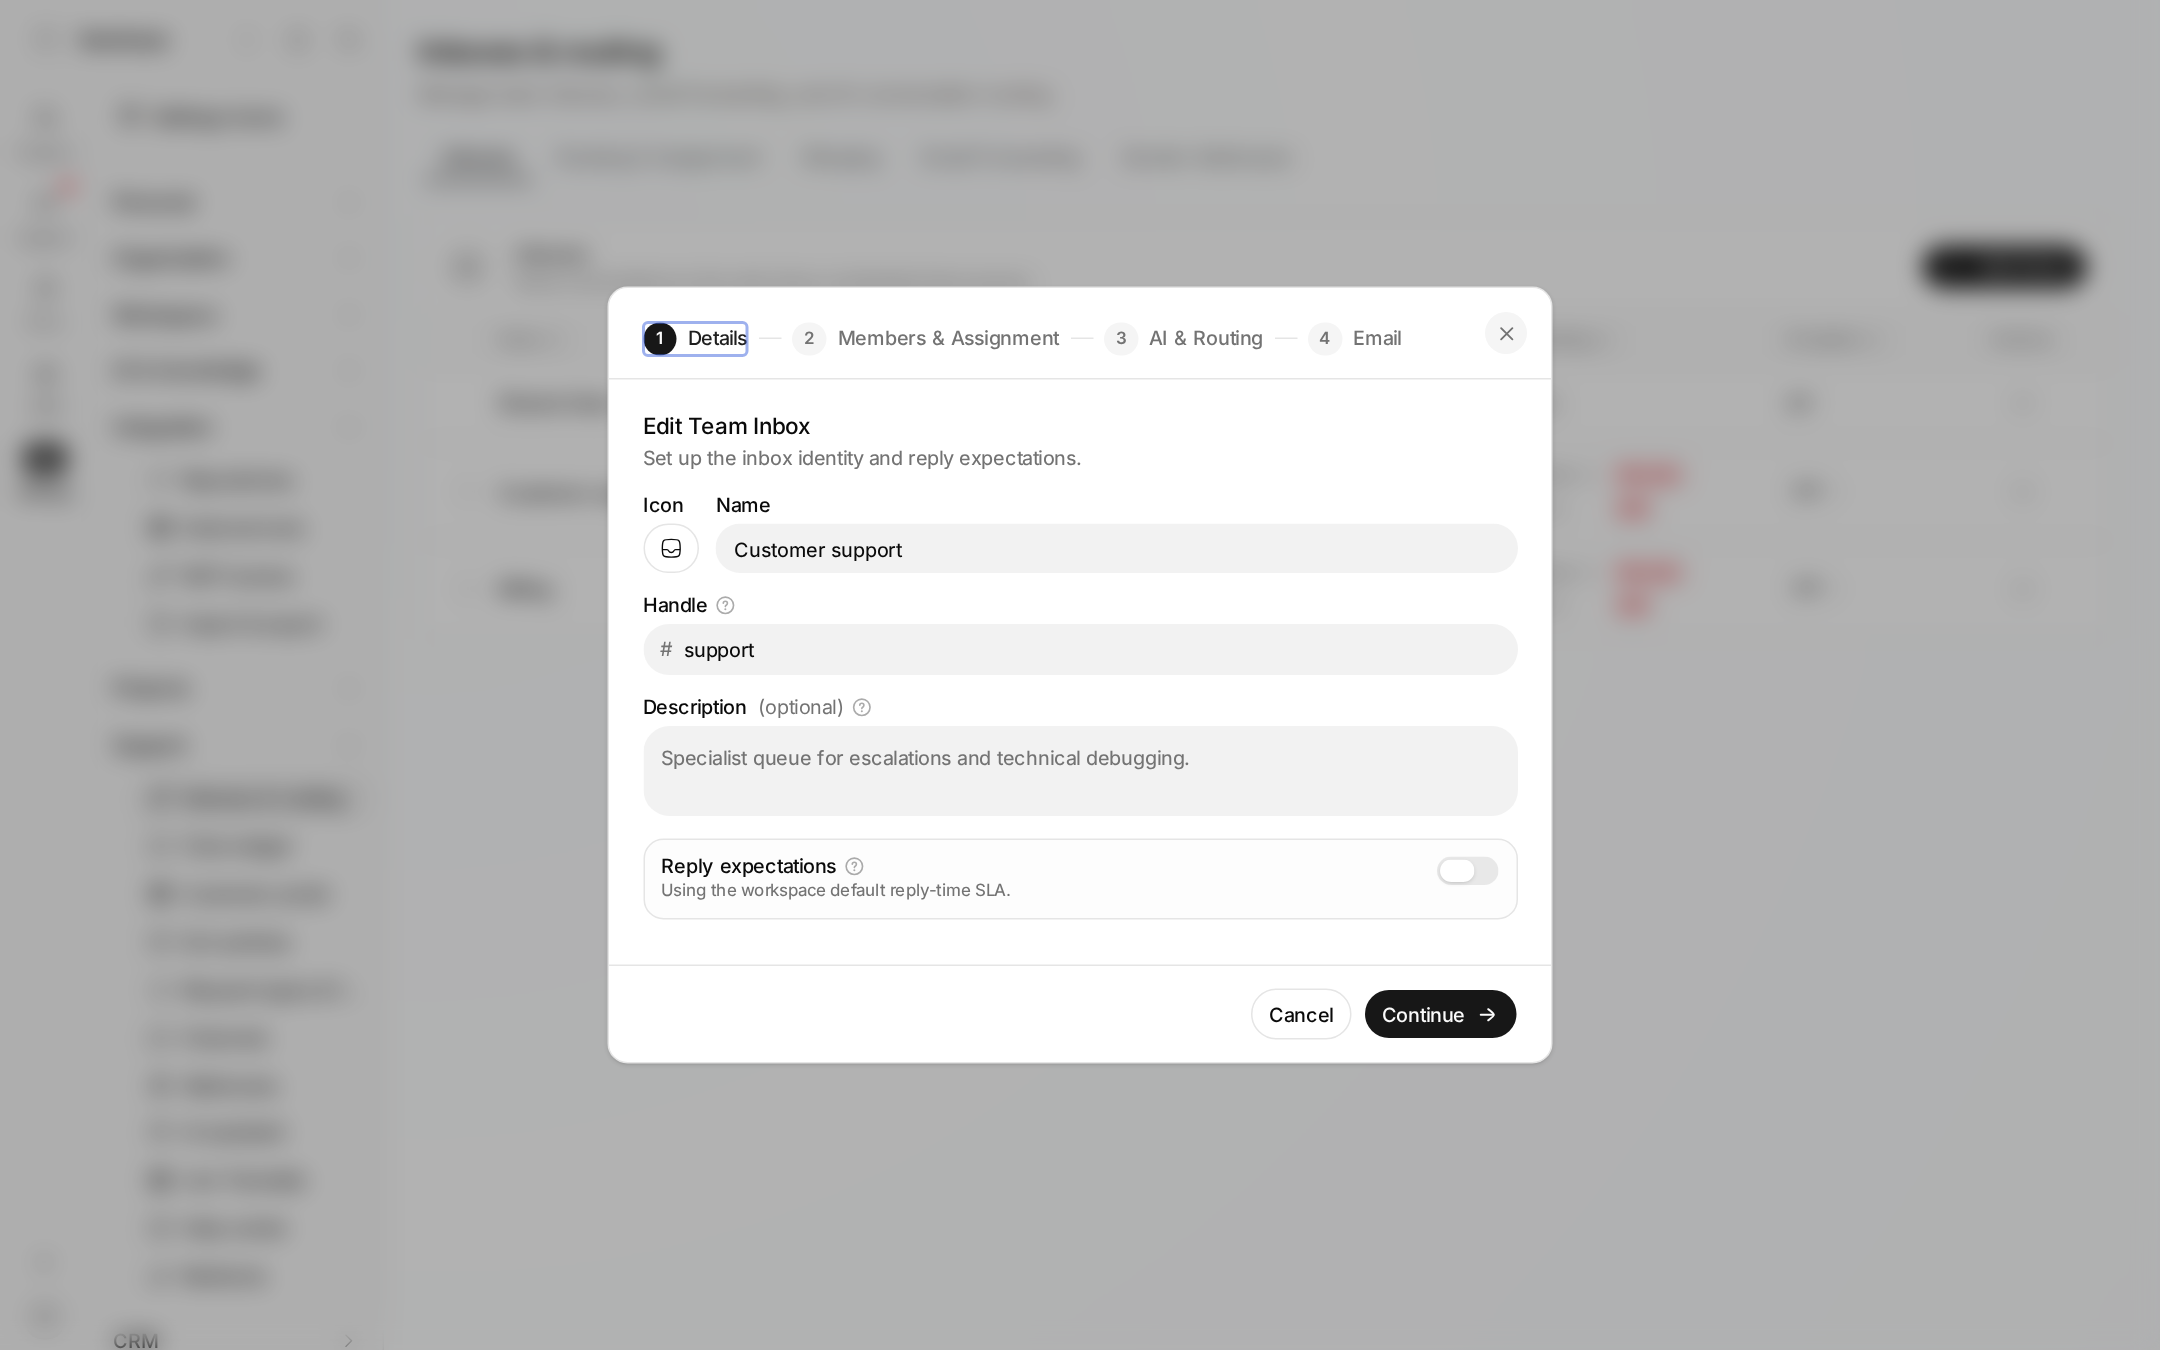
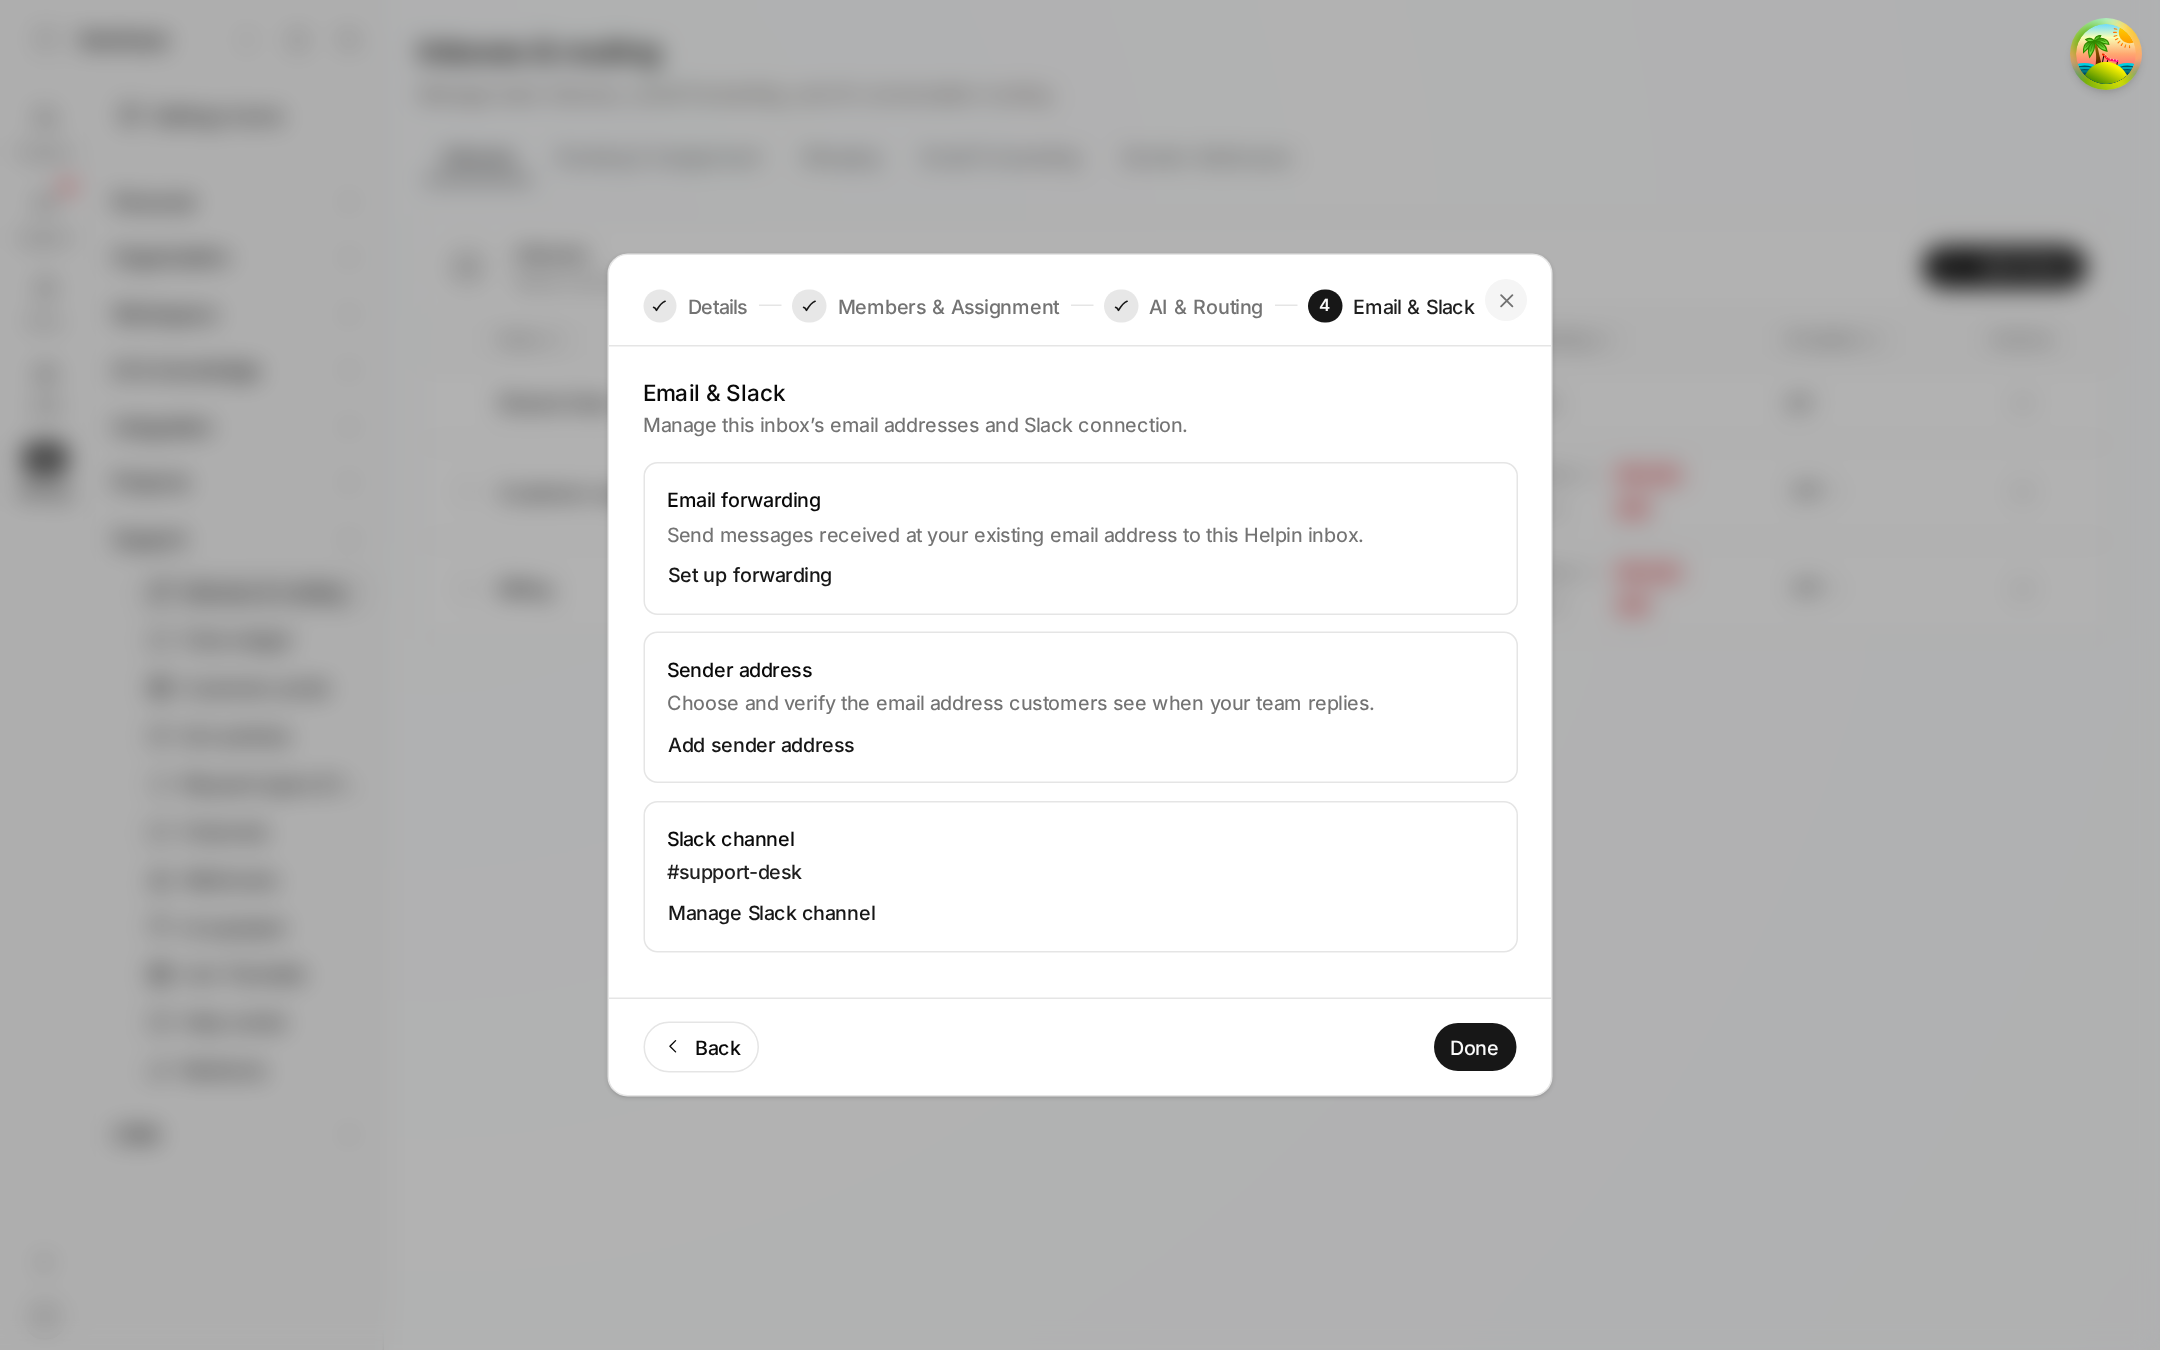
Group Slack and email setup in the team inbox editor

diff --git a/frontend/src/components/support/TeamInboxDialog.tsx b/frontend/src/components/support/TeamInboxDialog.tsx
@@ -46,8 +46,7 @@ import {
   splitMailboxMembersBySelection,
 } from './teamInboxDialogMembers';
 import { TeamInboxAssignmentFields } from './TeamInboxAssignmentFields';
-import { InboxSlackChannelRow } from '@/components/settings/channels/InboxSlackChannelRow';
-import { TeamInboxEmailSetup } from './TeamInboxEmailSetup';
+import { TeamInboxChannelSetup } from './TeamInboxChannelSetup';
 import { filterInboxAssignmentMembers, resolveInboxAssignmentSelection, type InboxAssignmentMode } from './teamInboxAssignment';
 import { getTeamInboxDialogSteps } from './teamInboxDialogFlow';
 
@@ -238,13 +237,11 @@ export function TeamInboxDialog({
   open,
   onOpenChange,
   mailbox,
-  showSlackChannel = true,
 }: {
   workspaceId: string;
   open: boolean;
   onOpenChange: (open: boolean) => void;
   mailbox?: SupportMailbox | null;
-  showSlackChannel?: boolean;
 }) {
   const [step, setStep] = useState<DialogStepNumber>(1);
   const [form, setForm] = useState<MailboxFormState>(DEFAULT_FORM);
@@ -448,7 +445,7 @@ export function TeamInboxDialog({
   ));
 
   const canProceedToStep2 = form.name.trim().length > 0 && form.handle.trim().length > 0;
-  // A new inbox reaches Email only after it is created; going back would create it twice.
+  // Channel setup follows inbox creation. Going back would create the inbox twice.
   const createdNewInbox = !mailbox && step === 4;
   const canOpenStep = (target: DialogStepNumber) => {
     if (createdNewInbox) return target === 4;
@@ -752,7 +749,6 @@ export function TeamInboxDialog({
                 </div>
               </div>
 
-              {showSlackChannel && mailbox && workspaceSlug && <InboxSlackChannelRow workspaceId={workspaceId} mailboxId={mailbox.id} />}
               <div className="space-y-1.5">
                 <FieldLabel htmlFor="team-inbox-description" tip="An internal note for your team explaining what this inbox is for. Not shown to customers.">
                   Description <span className="font-normal text-muted-foreground">(optional)</span>
@@ -1216,11 +1212,11 @@ export function TeamInboxDialog({
             <DialogHeader className="mb-4">
               <DialogTitle>{createdNewInbox ? 'Your team inbox is ready' : DIALOG_STEPS[3].label}</DialogTitle>
               <DialogDescription>
-                {createdNewInbox ? 'You can start using it now. Set up email when you’re ready.' : DIALOG_STEPS[3].description}
+                {createdNewInbox ? 'You can set up email and Slack whenever you’re ready.' : DIALOG_STEPS[3].description}
               </DialogDescription>
             </DialogHeader>
 
-            <TeamInboxEmailSetup workspaceId={workspaceId} mailboxId={mailbox?.id ?? createdMailboxId} />
+            <TeamInboxChannelSetup workspaceId={workspaceId} mailboxId={mailbox?.id ?? createdMailboxId} />
           </div>
         )}
 

diff --git a/frontend/src/components/support/TeamInboxChannelSetup.tsx b/frontend/src/components/support/TeamInboxChannelSetup.tsx
@@ -2,6 +2,7 @@ import type { ReactNode } from 'react';
 import { Badge } from '@/components/ui/badge';
 import { Button } from '@/components/ui/button';
 import { useSupportEmailRoutes, useSupportEmailSenders } from '@/hooks/queries/useSupport';
+import { useInboxSlackChannel } from '@/hooks/queries/useInboxSlackChannel';
 import { useWorkspaceStore } from '@/stores/workspaceStore';
 import { getInboxForwardingRoutes, getInboxSenderAddress, isSenderVerified } from './inboxEmailRouting';
 
@@ -12,7 +13,7 @@ function StatusBadge({ tone, children }: { tone: 'success' | 'warning'; children
   return <Badge variant="outline" className={`shrink-0 ${className}`}>{children}</Badge>;
 }
 
-function EmailSetupSection({
+function SetupSection({
   title,
   children,
   action,
@@ -48,12 +49,12 @@ function AddressRow({ primary, secondary, badge }: { primary: string; secondary?
   );
 }
 
-// Shows the inbox's current forwarding and sender address, or the action that sets each up.
 // Settings open in a new tab; the queries refetch on window focus, so status updates on return.
-export function TeamInboxEmailSetup({ workspaceId, mailboxId }: { workspaceId: string; mailboxId?: string | null }) {
+export function TeamInboxChannelSetup({ workspaceId, mailboxId }: { workspaceId: string; mailboxId?: string | null }) {
   const workspaceSlug = useWorkspaceStore((state) => state.currentWorkspace?.slug);
   const routesQuery = useSupportEmailRoutes(workspaceId);
   const sendersQuery = useSupportEmailSenders(workspaceId);
+  const slack = useInboxSlackChannel(workspaceId, mailboxId);
   const settingsHref = (search: string) =>
     workspaceSlug ? `/w/${workspaceSlug}/settings/inboxes-routing?${search}` : '/workspaces';
 
@@ -136,12 +137,19 @@ export function TeamInboxEmailSetup({ workspaceId, mailboxId }: { workspaceId: s
 
   return (
     <div className="space-y-3">
-      <EmailSetupSection title="Email forwarding" action={forwarding.action}>
+      <SetupSection title="Email forwarding" action={forwarding.action}>
         {forwarding.body}
-      </EmailSetupSection>
-      <EmailSetupSection title="Sender address" action={sender.action}>
+      </SetupSection>
+      <SetupSection title="Sender address" action={sender.action}>
         {sender.body}
-      </EmailSetupSection>
+      </SetupSection>
+      {slack && (
+        <SetupSection title="Slack channel" action={{ label: slack.channelName ? 'Manage Slack channel' : 'Connect Slack', href: slack.href }}>
+          {slack.channelName
+            ? <p className="break-words font-medium text-foreground">{slack.channelName}</p>
+            : <p>Share new conversations from this inbox in Slack.</p>}
+        </SetupSection>
+      )}
     </div>
   );
 }

diff --git a/frontend/src/hooks/queries/useInboxSlackChannel.ts b/frontend/src/hooks/queries/useInboxSlackChannel.ts
@@ -1,34 +1,22 @@
 import { useQuery } from '@tanstack/react-query'
-import { QuietPropertyRow } from '@/components/design-system/quiet'
 import { useWorkspaceAccess } from '@/hooks/queries/useSession'
 import { slackService } from '@/lib/services/slackService'
 import { slackChannelLabel } from '@/lib/supportChannels'
 import { useWorkspaceStore } from '@/stores/workspaceStore'
 
-export function useInboxSlackChannel(workspaceId: string, mailboxId: string) {
+export function useInboxSlackChannel(workspaceId: string, mailboxId?: string | null) {
   const slug = useWorkspaceStore(state => state.currentWorkspace?.slug)
   const { data: access } = useWorkspaceAccess(workspaceId)
   const allowed = !!access?.permissions?.includes('settings.manage') && !!access.permissions.includes('support.admin')
   const { data } = useQuery({
     queryKey: ['slack', workspaceId],
     queryFn: () => slackService.settings(workspaceId),
-    enabled: allowed,
+    enabled: allowed && !!mailboxId,
   })
-  if (!allowed || !data?.configured || !slug) return null
+  if (!allowed || !data?.configured || !slug || !mailboxId) return null
   const channel = data.routes?.find(rule => rule.purpose === 'inbox' && rule.mailbox_ids?.includes(mailboxId))
   return {
     href: `/w/${encodeURIComponent(slug)}/settings/external-tools?tab=apps&slack_inbox=${encodeURIComponent(mailboxId)}`,
     channelName: channel ? slackChannelLabel(channel.channel_name) : null,
   }
-}
-
-export function InboxSlackChannelRow({ workspaceId, mailboxId }: { workspaceId: string; mailboxId: string }) {
-  const slack = useInboxSlackChannel(workspaceId, mailboxId)
-  if (!slack) return null
-  return <QuietPropertyRow label="Slack channel" value={
-    <a className="text-xs text-muted-foreground hover:text-foreground hover:underline"
-      href={slack.href}>
-      {slack.channelName ? `${slack.channelName} · Manage` : 'Connect channel'}
-    </a>
-  } />
 }

diff --git a/.mockups/slack-inbox-feed/index.html b/.mockups/slack-inbox-feed/index.html
@@ -12,5 +12,5 @@
 <figure id="customer-intake"><a href="customer-intake.png"><img alt="Customer requests from Slack Connect" src="customer-intake.png"><figcaption>Customer requests from Slack Connect</figcaption></a></figure>
 <figure id="inboxes"><a href="inboxes.png"><img alt="Connect Slack from the shared inbox actions menu" src="inboxes.png"><figcaption>Shared inbox actions</figcaption></a></figure>
 <figure id="inbox-actions"><a href="inbox-actions.png"><img alt="Edit, manage Slack, or archive a team inbox" src="inbox-actions.png"><figcaption>Team inbox actions</figcaption></a></figure>
-<figure id="inbox-settings"><a href="inbox-settings.png"><img alt="Team inbox settings" src="inbox-settings.png"><figcaption>Team inbox settings</figcaption></a></figure>
+<figure id="inbox-settings"><a href="inbox-settings.png"><img alt="Email and Slack settings for a team inbox" src="inbox-settings.png"><figcaption>Team inbox · Email &amp; Slack</figcaption></a></figure>
 <figure id="conversation-actions"><a href="conversation-actions.png"><img alt="Open the Slack thread from Helpin" src="conversation-actions.png"><figcaption>Open the Slack thread from Helpin</figcaption></a></figure></section></main></body></html>

diff --git a/frontend/src/components/support/__tests__/teamInboxDialogFlow.test.ts b/frontend/src/components/support/__tests__/teamInboxDialogFlow.test.ts
@@ -6,11 +6,11 @@ describe('team inbox dialog flow', () => {
   it('keeps team and assignment setup in the members step', () => {
     const steps = getTeamInboxDialogSteps();
 
-    expect(steps.map((step) => step.label)).toEqual(['Details', 'Members & Assignment', 'AI & Routing', 'Email']);
+    expect(steps.map((step) => step.label)).toEqual(['Details', 'Members & Assignment', 'AI & Routing', 'Email & Slack']);
     expect(steps[0].fields).toEqual(['identity', 'description', 'reply_expectations']);
     expect(steps[1].fields).toEqual(['linked_team', 'additional_members', 'assignment_mode']);
     expect(steps[2].fields).toEqual(['ai_replies', 'automated_routing_notice', 'manual_routing_rules', 'ai_routing_prompt']);
-    expect(steps[3].fields).toEqual(['email_forwarding', 'sender_address']);
+    expect(steps[3].fields).toEqual(['email_forwarding', 'sender_address', 'slack_channel']);
     expect(steps[1].description).toContain('linked team');
     expect(steps[1].description).toContain('additional members');
     expect(steps[2].description).toContain('Automated routing');

diff --git a/frontend/src/components/support/__tests__/teamInboxDialogDefaults.test.ts b/frontend/src/components/support/__tests__/teamInboxDialogDefaults.test.ts
@@ -12,11 +12,11 @@ describe('TeamInboxDialog defaults', () => {
   it('shows optional email setup after a new inbox is created', () => {
     const source = readFileSync(resolve(__dirname, '../TeamInboxDialog.tsx'), 'utf8');
 
-    const emailSetupSource = readFileSync(resolve(__dirname, '../TeamInboxEmailSetup.tsx'), 'utf8');
+    const emailSetupSource = readFileSync(resolve(__dirname, '../TeamInboxChannelSetup.tsx'), 'utf8');
 
     expect(source).toContain('setStep(4);');
     expect(source).toContain('Your team inbox is ready');
-    expect(source).toContain('<TeamInboxEmailSetup');
+    expect(source).toContain('<TeamInboxChannelSetup');
     expect(emailSetupSource).toContain('Send messages received at your existing email address to this Helpin inbox.');
     expect(emailSetupSource).toContain('Choose and verify the email address customers see when your team replies.');
     expect(emailSetupSource).toContain('Set up forwarding');

diff --git a/frontend/src/components/settings/ConversationRoutingTab.tsx b/frontend/src/components/settings/ConversationRoutingTab.tsx
@@ -22,7 +22,7 @@ import {
 import { CSS } from '@dnd-kit/utilities';
 import { useQueryClient } from '@tanstack/react-query';
 import { toast } from 'sonner';
-import { useInboxSlackChannel } from '@/components/settings/channels/InboxSlackChannelRow';
+import { useInboxSlackChannel } from '@/hooks/queries/useInboxSlackChannel';
 import { TeamInboxDialog } from '@/components/support/TeamInboxDialog';
 import { UserAvatar } from '@/components/pm/UserAvatar';
 import { useConfirm } from '@/components/ui/confirm-dialog';
@@ -1308,7 +1308,6 @@ export function ConversationRoutingTab({
 
       <TeamInboxDialog
         workspaceId={workspaceId}
-        showSlackChannel={false}
         open={mailboxDialogOpen}
         onOpenChange={(open) => {
           setMailboxDialogOpen(open);

diff --git a/frontend/src/components/support/teamInboxDialogFlow.ts b/frontend/src/components/support/teamInboxDialogFlow.ts
@@ -22,9 +22,9 @@ export function getTeamInboxDialogSteps(): TeamInboxDialogStep[] {
       fields: ['ai_replies', 'automated_routing_notice', 'manual_routing_rules', 'ai_routing_prompt'],
     },
     {
-      label: 'Email',
-      description: 'Forward your support email here and choose the sender address customers see.',
-      fields: ['email_forwarding', 'sender_address'],
+      label: 'Email & Slack',
+      description: 'Manage this inbox’s email addresses and Slack connection.',
+      fields: ['email_forwarding', 'sender_address', 'slack_channel'],
     },
   ];
 }
